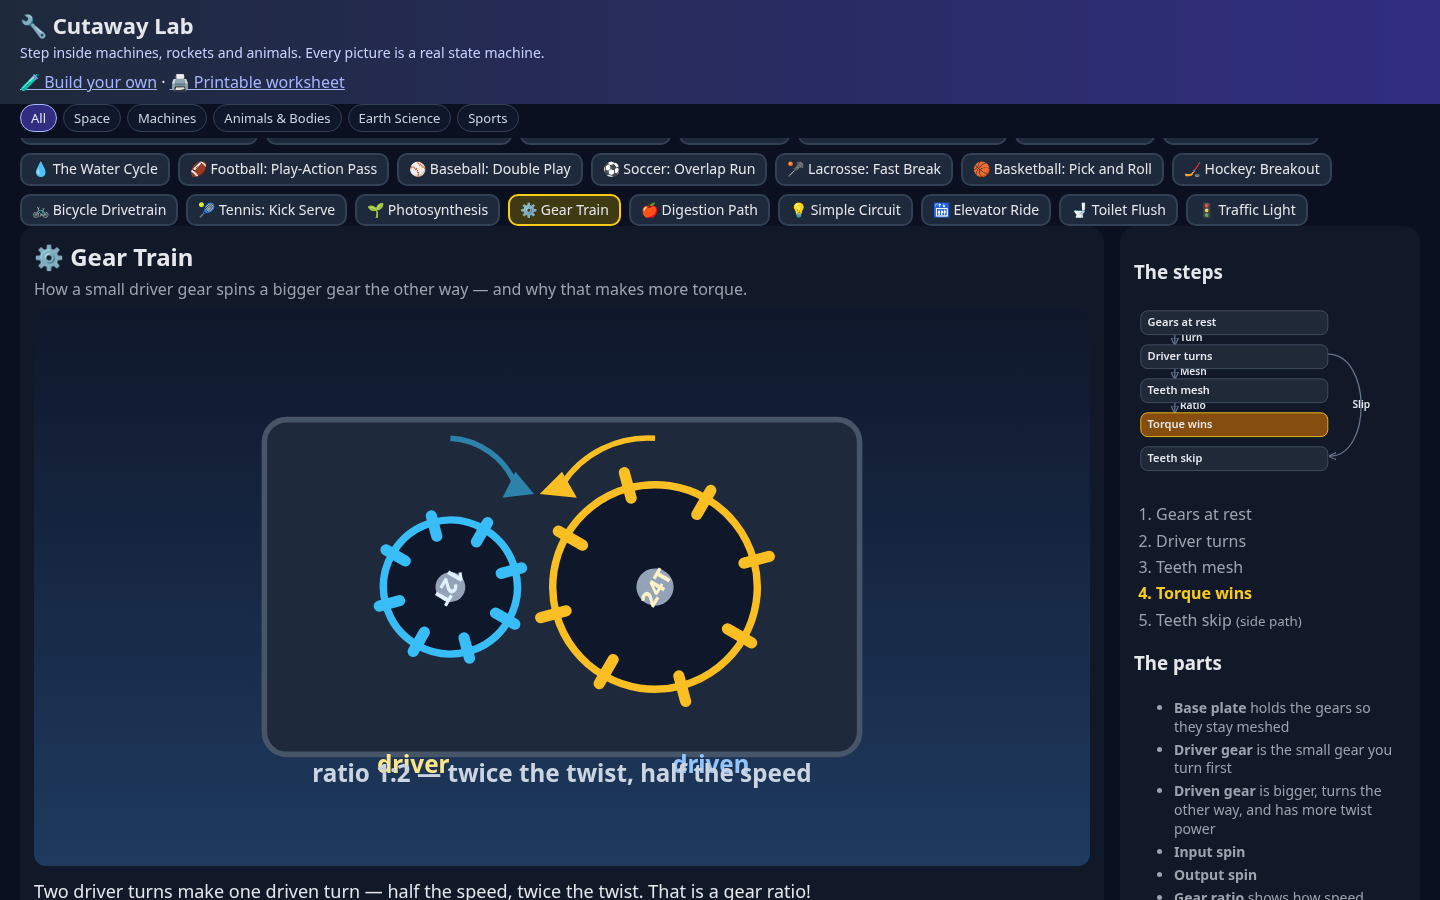
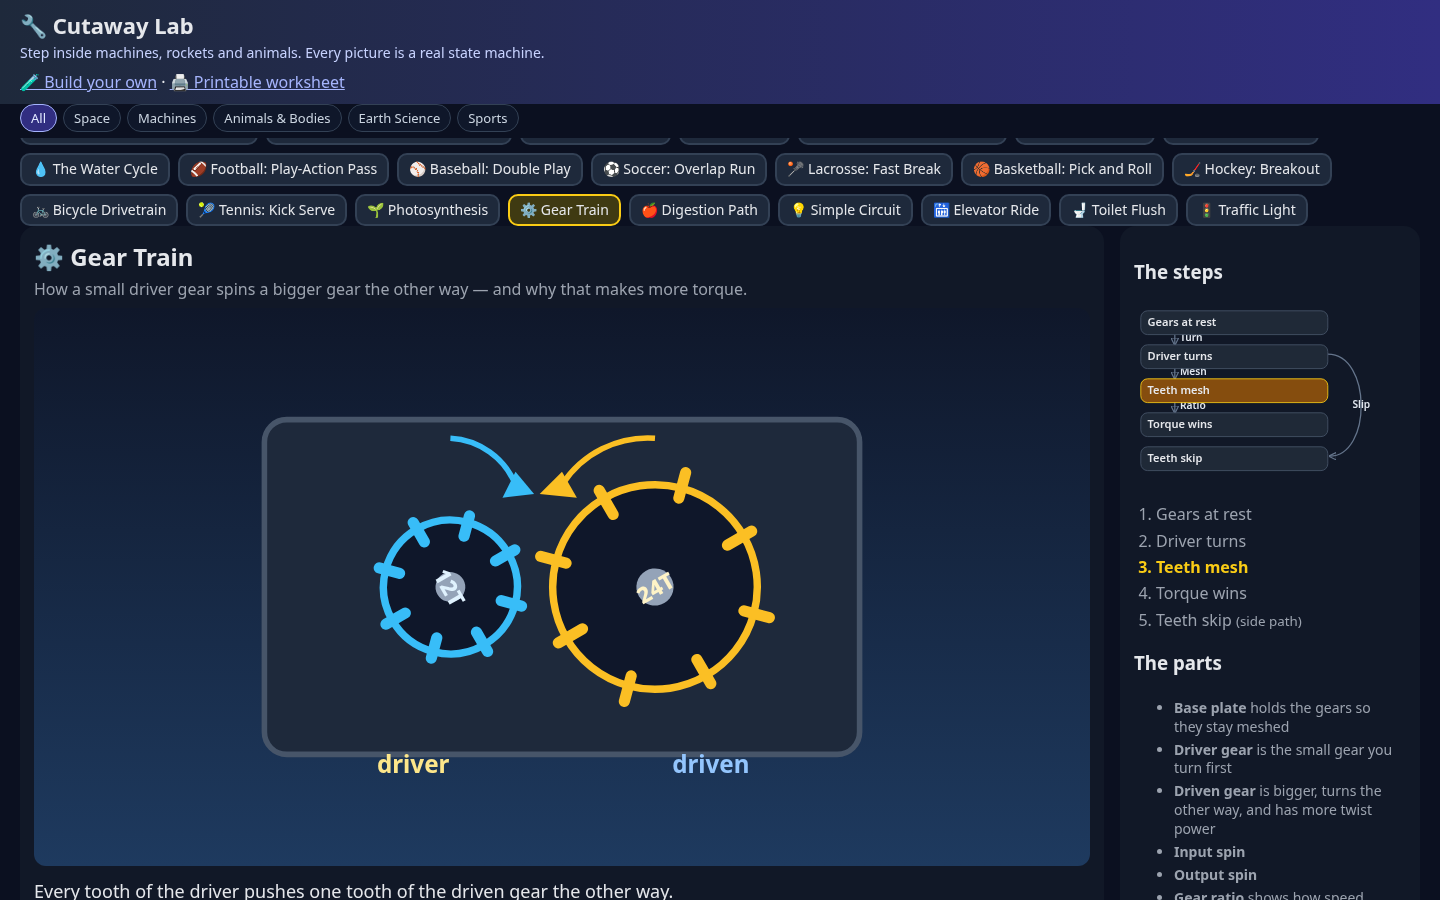
v1.0: bike chainring caption; shorter gears ratio label
- Chainring labeled on drivetrain
- Ratio badge shortened so it stays inside the stage

diff --git a/machines/bike.js b/machines/bike.js
@@ -11,6 +11,8 @@ export default {
       svg: '<circle cx="320" cy="210" r="42" fill="none" stroke="#94a3b8" stroke-width="5"/><circle cx="320" cy="210" r="6" fill="#334155"/><g stroke="#475569" stroke-width="1.5"><path d="M320 168 V252 M278 210 H362 M290 180 L350 240 M290 240 L350 180"/></g>', explode: [30, 10] },
     { id: 'chainring', label: 'Chainring', job: 'is the big gear the pedals turn',
       svg: '<circle cx="160" cy="200" r="28" fill="#1e293b" stroke="#fbbf24" stroke-width="3"/><circle cx="160" cy="200" r="8" fill="#334155"/><g stroke="#fbbf24" stroke-width="2"><path d="M160 172 V228 M132 200 H188 M140 180 L180 220 M140 220 L180 180"/></g>', explode: [-40, 0] },
+    { id: 'lblRing', label: 'Chainring label',
+      svg: '<text x="140" y="200" text-anchor="middle" fill="#fbbf24" font-size="12" font-weight="700">chainring</text>' },
     { id: 'pedal', label: 'Pedal', job: 'is where your foot pushes',
       svg: '<rect x="148" y="228" width="24" height="8" rx="2" fill="#e2e8f0"/><path d="M160 200 V228" stroke="#94a3b8" stroke-width="3"/>', explode: [-20, 30] },
     { id: 'chain', label: 'Chain', job: 'pulls the rear cassette when the chainring turns',

diff --git a/machines/gears.js b/machines/gears.js
@@ -18,7 +18,7 @@ export default {
     { id: 'arrowOut', label: 'Output spin',
       svg: '<path d="M250 70 A55 55 0 0 0 200 95" stroke="#fbbf24" stroke-width="3" fill="none"/><polygon points="200,88 188,100 208,102" fill="#fbbf24"/>', pose: { opacity: 0 } },
     { id: 'label', label: 'Gear ratio', job: 'shows how speed trades for twist',
-      svg: '<text x="200" y="255" text-anchor="middle" fill="#cbd5e1" font-size="13" font-weight="700">ratio 1:2 — twice the twist, half the speed</text>', pose: { opacity: 0 } },
+      svg: '<text x="200" y="255" text-anchor="middle" fill="#cbd5e1" font-size="13" font-weight="700">ratio 1:2 · more twist</text>', pose: { opacity: 0 } },
   ],
   states: {
     rest: { label: 'Gears at rest', caption: 'Two gears mesh. The small one has 12 teeth; the big one has 24.', on: { TURN: 'turn' } },
